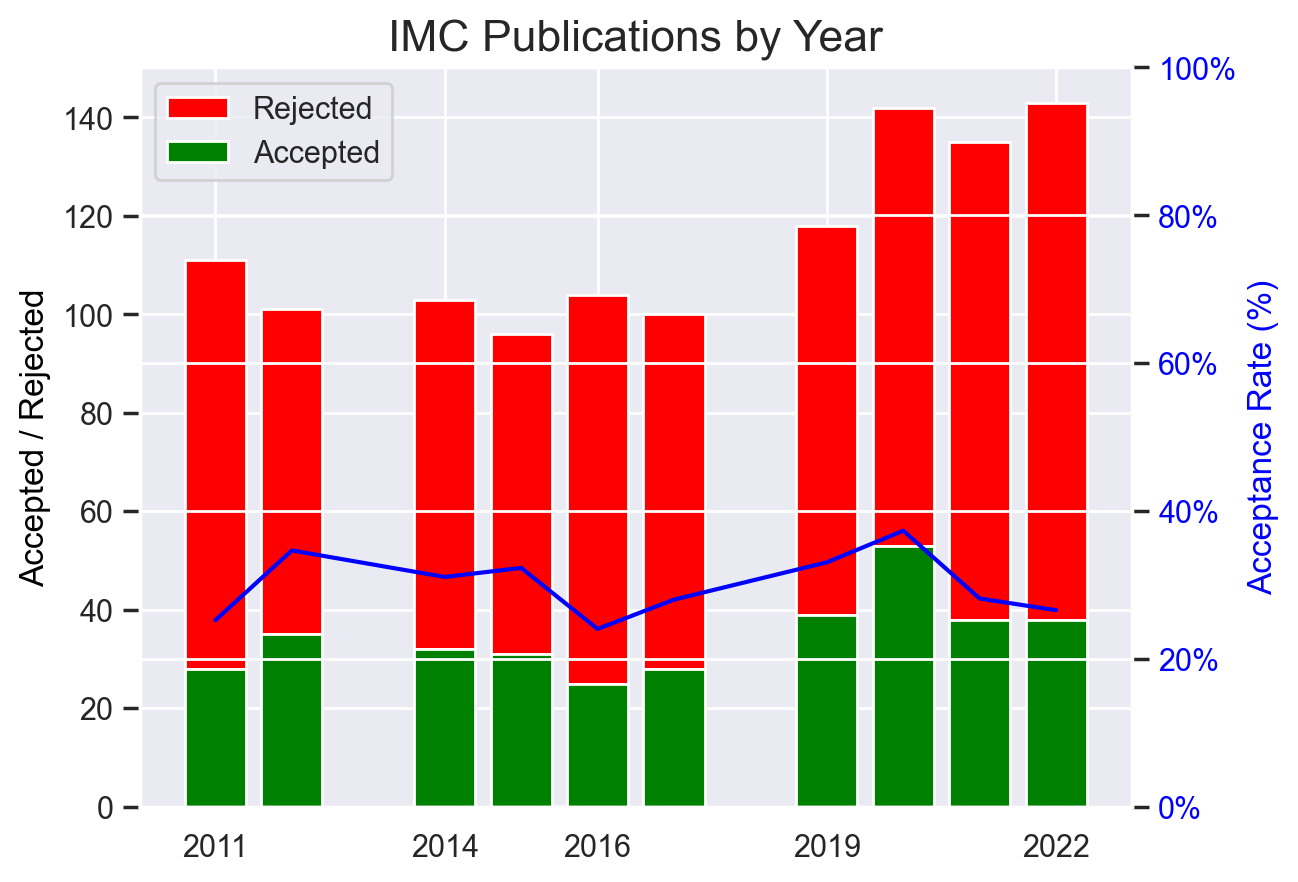
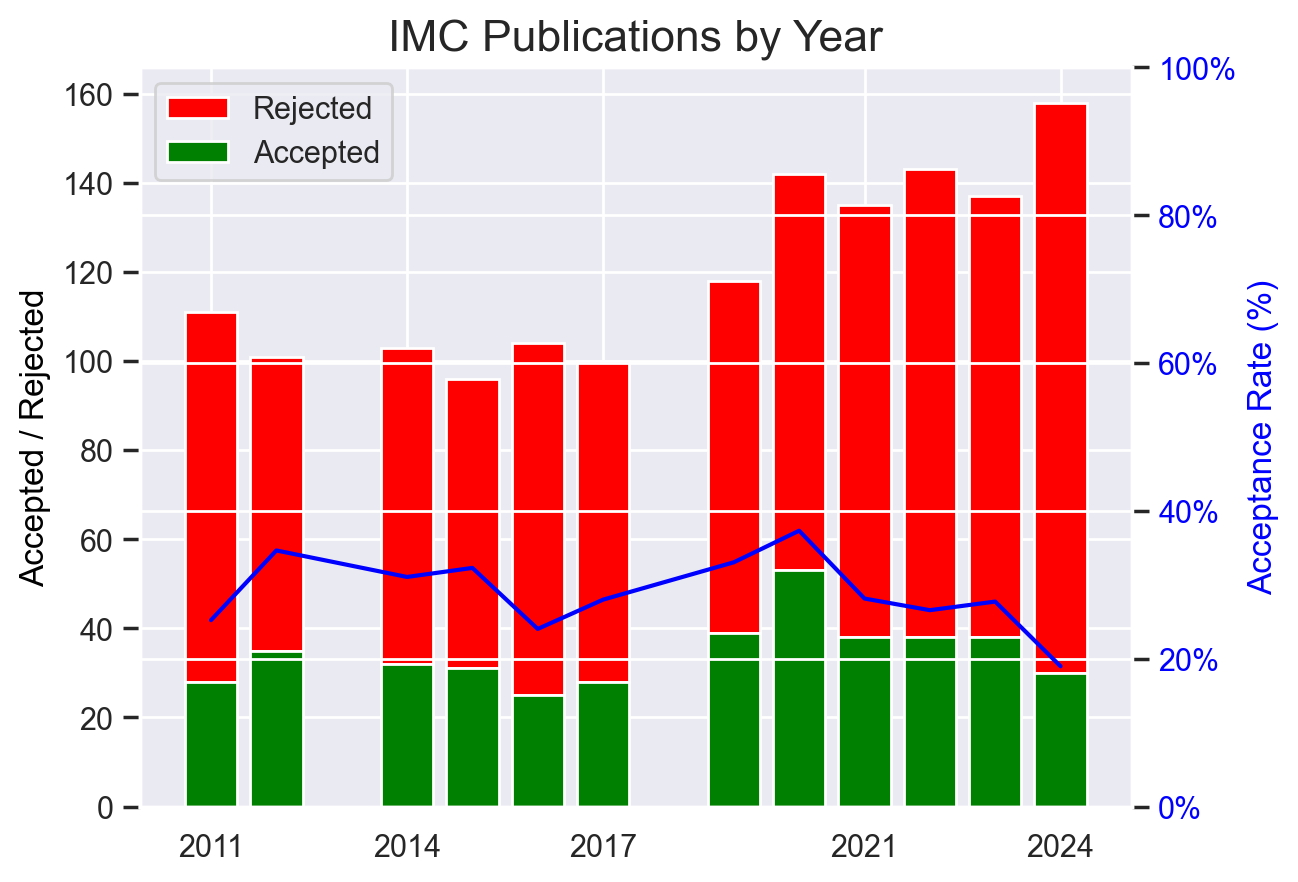
Updated Metrics

diff --git a/README.md b/README.md
@@ -151,7 +151,7 @@
 </summary>
 <A NAME="IMC"></A>
 <P><B><A HREF="https://dblp.org/db/conf/imc/index.html">IMC</A></B>
- <em>mean acceptance rate, last 5 years: 31%</em></P>
+ <em>mean acceptance rate, last 5 years: 28%</em></P>
 <IMG SRC="https://github.com/emeryberger/csconferences/blob/main/graphs/IMC.png?raw=true" WIDTH="500">
 <A NAME="SIGMETRICS"></A>
 <P><B><A HREF="https://dblp.org/db/conf/sigmetrics/index.html">SIGMETRICS</A></B>
